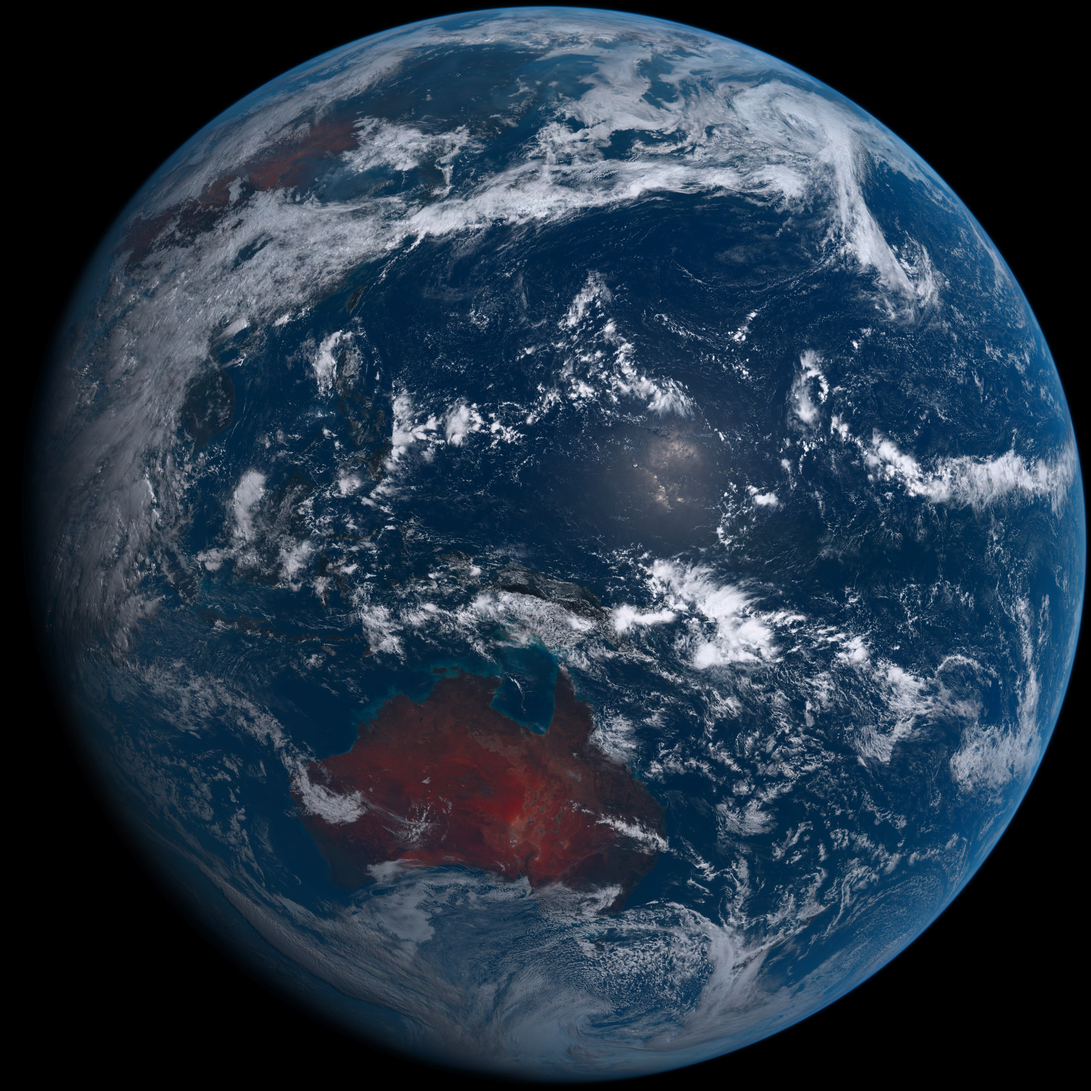
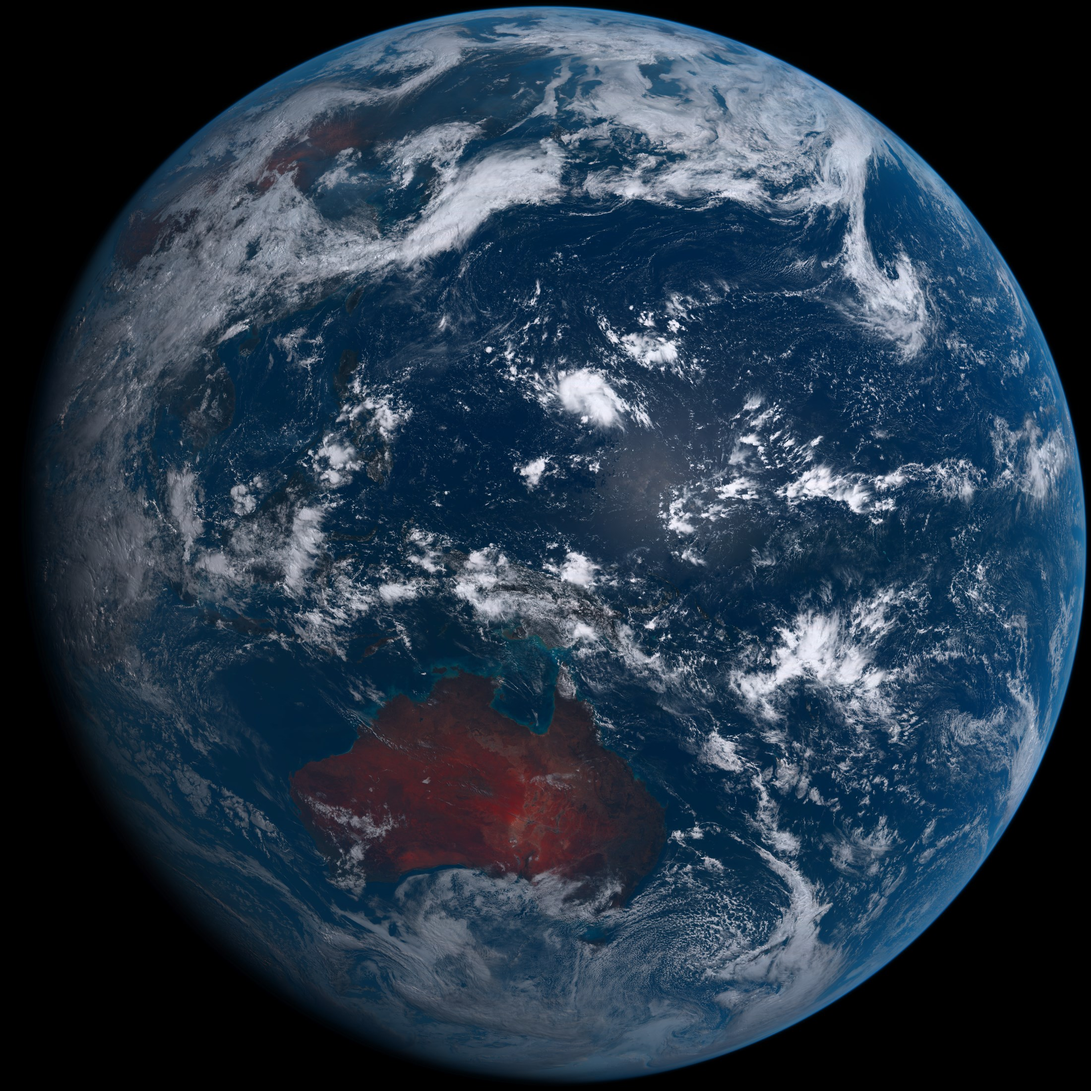
set wallpaper

diff --git a/README.md b/README.md
@@ -1,12 +1,12 @@
 # ps1
 
 - ### BingWallpaper
-- ##### Monday 16/08/2021 03:11:49 +00
+- ##### Tuesday 17/08/2021 03:11:42 +00
 <img src="BingWallpaper/latest.jpg" width="700" height="auto" title="👉  BingWallpaper  👈">
 
 
 - ### Himawari 
-- ##### Monday 16/08/2021 03:11:42 +00
+- ##### Tuesday 17/08/2021 03:11:34 +00
 <img src="Himawari/latest.jpg" width="auto" height="371" title="👉  Himawari  👈">
 
 
